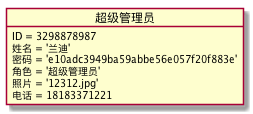
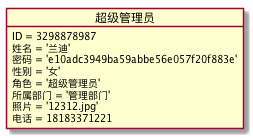
test3

Changed region(s): [[0.0, 0.0526, 0.996, 0.9474]]

diff --git a/test3/README.md b/test3/README.md
@@ -10,10 +10,10 @@ left to right direction
 class 游客{
     ID
 }
-
-class 图书管理员 {
+class 用户{
     ID
-    管理员名
+    姓名
+    性别
     密码
     角色
     电话
@@ -24,16 +24,17 @@ class 图书管理员 {
     ...
     --
     End of class
+
+}
+class 图书管理员 {
+    所属部门
+    --set 和 get--
+    ...
+    --
+    End of class
 }
 class 超级管理员{
-    ID
-    管理员名
-    密码
-    角色
-    电话
-    邮箱
-    照片
-    电话
+    所属部门
     --set 和 get--
     ...
     --
@@ -41,18 +42,10 @@ class 超级管理员{
 }
 
 class 读者 {
-    ID
-    姓名
-    密码
-    性别
     出生日期
-    角色
     所属学院
     专业
     借书数量
-    照片
-    邮箱
-    电话
     --set 和 get--
     ...
     --
@@ -153,8 +146,11 @@ class 罚款细则{
     End of class
 }
 
+用户 <|-left- 读者
+用户 <|-down- 图书管理员
+用户 <|-left- 超级管理员
 
-图书管理员 "1..10"<|-up-"1" 超级管理员:维护
+图书管理员 "1..10"-up-"1" 超级管理员:维护
 超级管理员 "1"-up- "n"读者 :维护
 图书管理员 "1"-right-"n"借书记录:登记
 图书管理员 "1"-down-"n"逾期记录:登记
@@ -167,9 +163,6 @@ class 罚款细则{
 图书品种 "1"*-right- "n"图书:馆藏
 图书 "1"-down- "n"预定记录
 图书 "1"-right- "n"借书记录
-读者 "1"-- "1"读者:设置
-超级管理员 "1" -- "1"超级管理员:设置
-图书管理员 "1" -- "1"图书管理员:设置
 逾期记录 "0..1"-down-"0..1"罚款细则:使用
 @enduml
 ```
@@ -226,7 +219,9 @@ object 图书管理员{
     ID = 3298878987
     姓名 = '兰迪'
     密码 = 'e10adc3949ba59abbe56e057f20f883e'
+    性别 = '女'
     角色 = '图书管理员'
+    所属部门 = '行政部门'
     照片 = '12312.jpg'
     邮箱 = '949103297@qq.com'
     电话 = 18183371221
@@ -243,7 +238,9 @@ object 超级管理员{
     ID = 3298878987
     姓名 = '兰迪'
     密码 = 'e10adc3949ba59abbe56e057f20f883e'
+    性别 = '女'
     角色 = '超级管理员'
+    所属部门 = '管理部门'
     照片 = '12312.jpg'
     电话 = 18183371221
 }

diff --git a/test3/class.md b/test3/class.md
@@ -3,10 +3,10 @@ left to right direction
 class 游客{
     ID
 }
-
-class 图书管理员 {
+class 用户{
     ID
-    管理员名
+    姓名
+    性别
     密码
     角色
     电话
@@ -17,16 +17,17 @@ class 图书管理员 {
     ...
     --
     End of class
+
+}
+class 图书管理员 {
+    所属部门
+    --set 和 get--
+    ...
+    --
+    End of class
 }
 class 超级管理员{
-    ID
-    管理员名
-    密码
-    角色
-    电话
-    邮箱
-    照片
-    电话
+    所属部门
     --set 和 get--
     ...
     --
@@ -34,18 +35,10 @@ class 超级管理员{
 }
 
 class 读者 {
-    ID
-    姓名
-    密码
-    性别
     出生日期
-    角色
     所属学院
     专业
     借书数量
-    照片
-    邮箱
-    电话
     --set 和 get--
     ...
     --
@@ -146,8 +139,11 @@ class 罚款细则{
     End of class
 }
 
+用户 <|-left- 读者
+用户 <|-down- 图书管理员
+用户 <|-left- 超级管理员
 
-图书管理员 "1..10"<|-up-"1" 超级管理员:维护
+图书管理员 "1..10"-up-"1" 超级管理员:维护
 超级管理员 "1"-up- "n"读者 :维护
 图书管理员 "1"-right-"n"借书记录:登记
 图书管理员 "1"-down-"n"逾期记录:登记
@@ -160,8 +156,5 @@ class 罚款细则{
 图书品种 "1"*-right- "n"图书:馆藏
 图书 "1"-down- "n"预定记录
 图书 "1"-right- "n"借书记录
-读者 "1"-- "1"读者:设置
-超级管理员 "1" -- "1"超级管理员:设置
-图书管理员 "1" -- "1"图书管理员:设置
 逾期记录 "0..1"-down-"0..1"罚款细则:使用
 @enduml

diff --git a/test3/object2.md b/test3/object2.md
@@ -3,7 +3,9 @@ object 图书管理员{
     ID = 3298878987
     姓名 = '兰迪'
     密码 = 'e10adc3949ba59abbe56e057f20f883e'
+    性别 = '女'
     角色 = '图书管理员'
+    所属部门 = '行政部门'
     照片 = '12312.jpg'
     邮箱 = '949103297@qq.com'
     电话 = 18183371221

diff --git a/test3/object3.md b/test3/object3.md
@@ -3,7 +3,9 @@ object 超级管理员{
     ID = 3298878987
     姓名 = '兰迪'
     密码 = 'e10adc3949ba59abbe56e057f20f883e'
+    性别 = '女'
     角色 = '超级管理员'
+    所属部门 = '管理部门'
     照片 = '12312.jpg'
     电话 = 18183371221
 }
